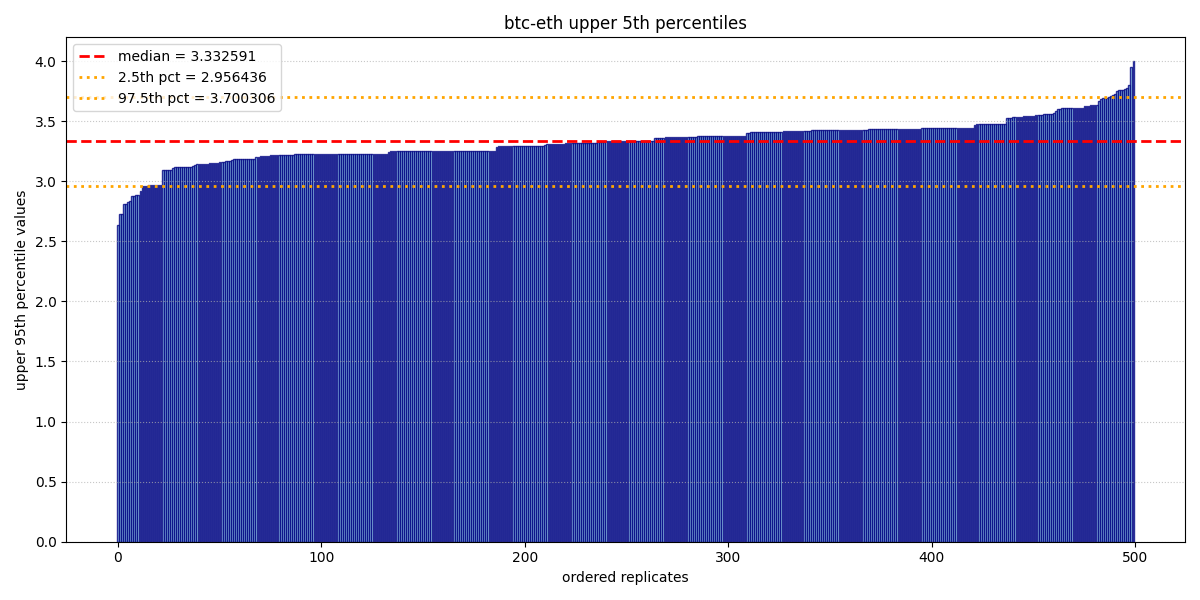
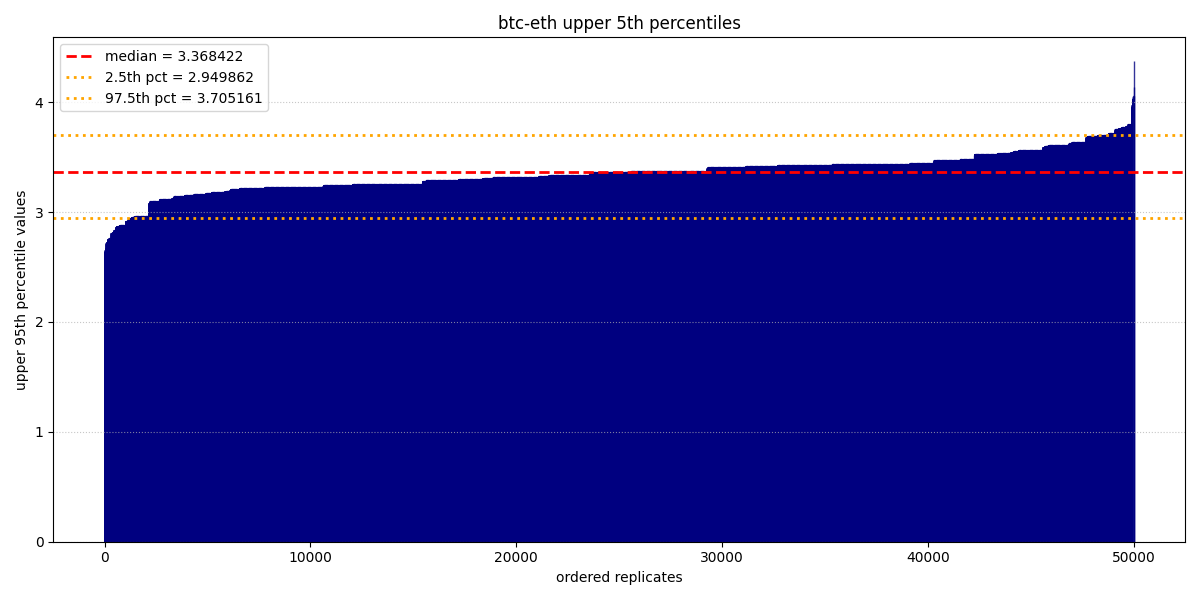
save

diff --git a/src/getStats.py b/src/getStats.py
@@ -29,7 +29,7 @@ def get_stats(asset1: str, asset2: str) -> None:
 
     draw_graph(asset1, asset2)
 
-    generate_replicates(asset1, asset2, 500)
+    generate_replicates(asset1, asset2, 50000)
 
     sort_reps(asset1, asset2)
 
